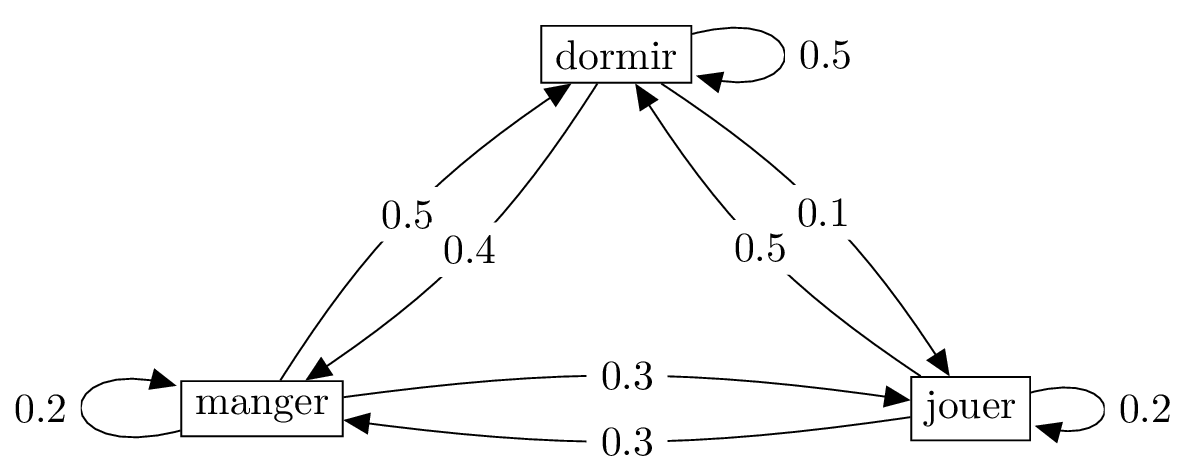
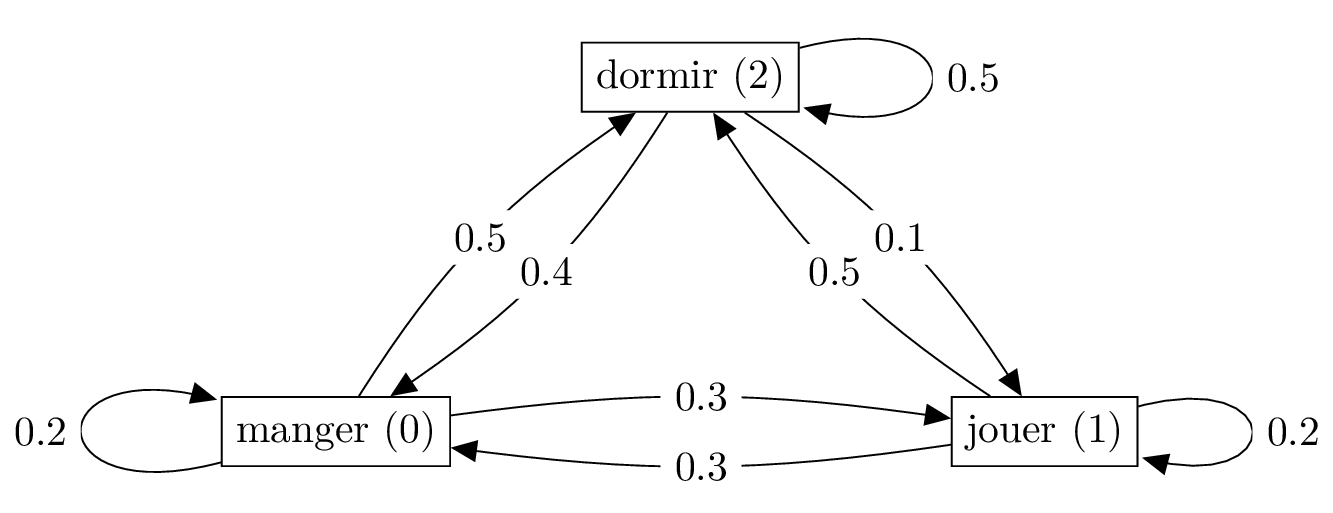
Update

diff --git a/graph/markov/chat/chat.tex b/graph/markov/chat/chat.tex
@@ -5,9 +5,9 @@
 \begin{document}
 
 \begin{tikzpicture}
-    \node[draw] (m) at (0,0) {manger};
-    \node[draw] (j) at (6,0) {jouer};
-    \node[draw] (d) at (3,3) {dormir};
+    \node[draw] (m) at (0,0) {manger (0)};
+    \node[draw] (j) at (6,0) {jouer (1)};
+    \node[draw] (d) at (3,3) {dormir (2)};
     \draw[arc] (m) to[bend left=8] node[fill=white] {$0.3$} (j);
     \draw[arc] (m) to[bend left=12] node[fill=white] {$0.5$} (d);
     \draw[arc] (m) edge[loop left] node[fill=white]{$0.2$} (m);
